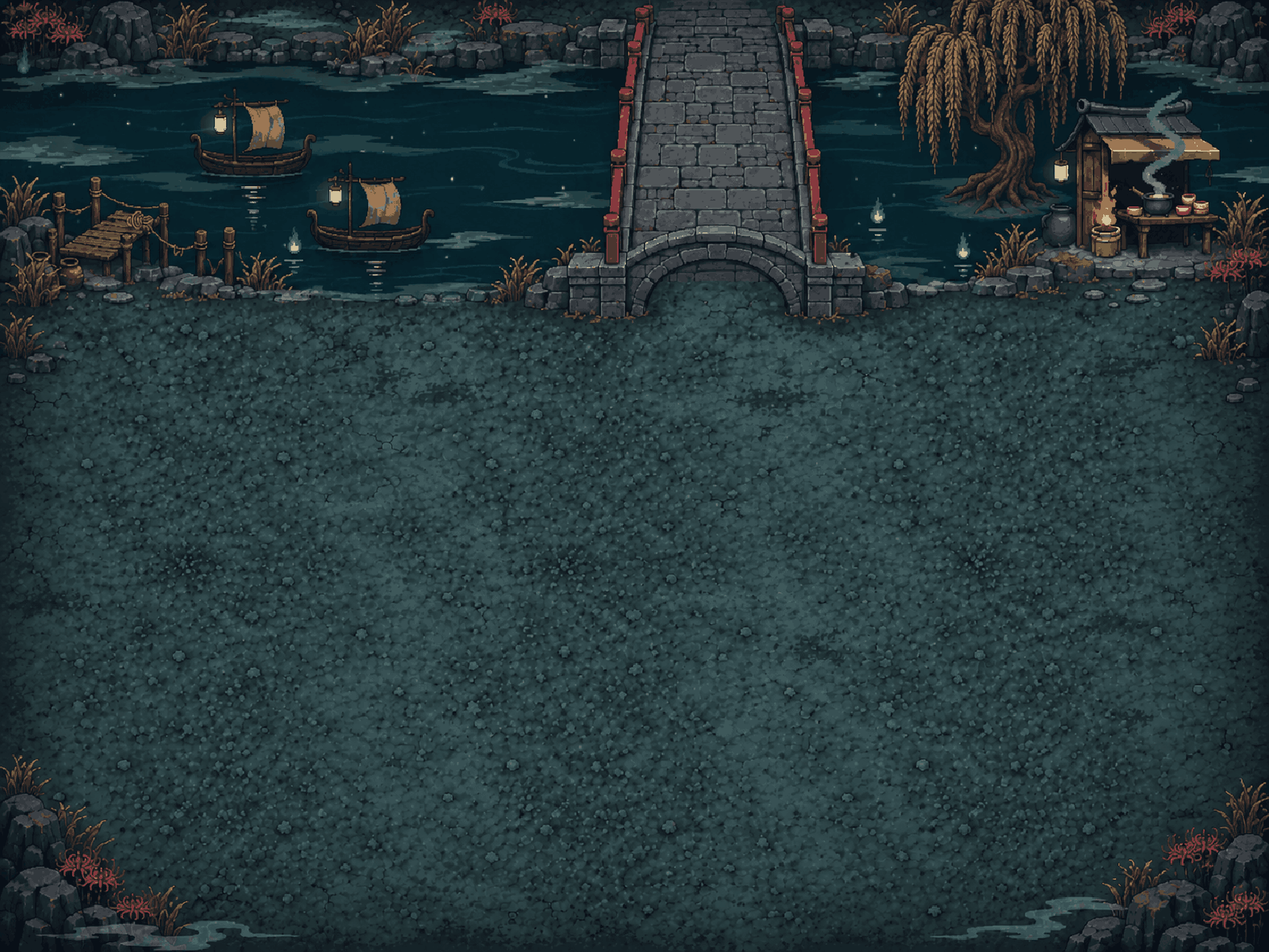
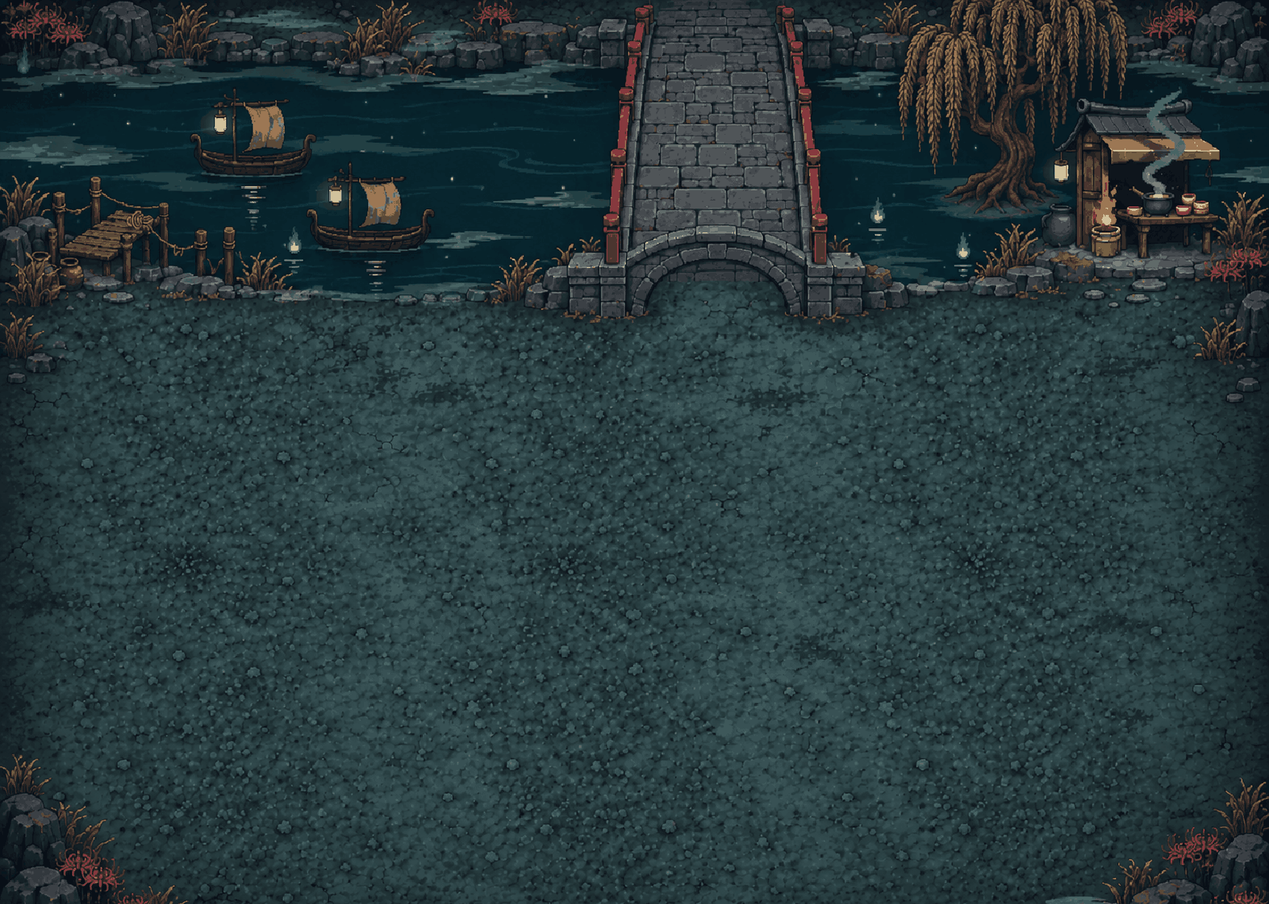
Vong Xuyên: nền ChatGPT 1600x1140 khớp tỉ lệ map
Claude-Session: https://claude.ai/code/session_01MYwTvK6dULdzXHFPeBSgyd

Changed region(s): [[0.0, 0.0, 1.0, 1.0]]

diff --git a/game/index.html b/game/index.html
@@ -1867,7 +1867,7 @@ function hitFx(x,y,ang,sc,sy,T){if(!vok('wx_slash'))return;fx({k:'sp',s:'wx_slas
 const vok=n=>VFX[n]&&VFX[n].complete&&VFX[n].naturalWidth>0;
 function arcCell(c,row,fi,sc){c.drawImage(VFX.arc_sheet,Math.max(0,Math.min(7,fi))*96,row*96,96,96,-48*sc,-48*sc,96*sc,96*sc)}
 /* bản đồ gói Wuxia */
-const MM={"Snow_pine_a":{"src":"assets/map/Snow_pine_a.png","w":268,"h":317,"ax":124,"ay":307,"col":[-21,-13,21,0]},"Snow_pine_b":{"src":"assets/map/Snow_pine_b.png","w":256,"h":276,"ax":128,"ay":267,"col":[-19,-12,19,0]},"Snow_bare":{"src":"assets/map/Snow_bare.png","w":202,"h":223,"ax":93,"ay":214,"col":[-17,-10,17,0]},"Snow_boulder":{"src":"assets/map/Snow_boulder.png","w":153,"h":132,"ax":81,"ay":131,"col":[-62,-32,62,0]},"Snow_cliff":{"src":"assets/map/Snow_cliff.png","w":407,"h":243,"ax":204,"ay":239,"col":[-170,-73,170,0]},"Snow_pavilion":{"src":"assets/map/Snow_pavilion.png","w":255,"h":275,"ax":117,"ay":279,"col":[-116,-11,-93,6]},"Forest_oak_0":{"src":"assets/map/Forest_oak_0.png","w":296,"h":295,"ax":144,"ay":293,"col":[-27,-14,27,0]},"Forest_oak_1":{"src":"assets/map/Forest_oak_1.png","w":275,"h":272,"ax":140,"ay":271,"col":[-25,-13,25,0]},"Forest_oak_2":{"src":"assets/map/Forest_oak_2.png","w":268,"h":274,"ax":134,"ay":269,"col":[-25,-13,25,0]},"Forest_oak_3":{"src":"assets/map/Forest_oak_3.png","w":271,"h":272,"ax":131,"ay":273,"col":[-25,-13,25,0]},"Forest_oak_5":{"src":"assets/map/Forest_oak_5.png","w":268,"h":259,"ax":140,"ay":261,"col":[-25,-13,25,0]},"Forest_bamboo":{"src":"assets/map/Forest_bamboo.png","w":263,"h":256,"ax":134,"ay":255,"col":[-42,-22,42,0]},"Forest_boulder":{"src":"assets/map/Forest_boulder.png","w":172,"h":130,"ax":83,"ay":134,"col":[-63,-33,63,0]},"Forest_willow":{"src":"assets/map/Forest_willow.png","w":233,"h":231,"ax":114,"ay":238,"col":[-13,-14,13,0]},"Forest_reeds":{"src":"assets/map/Forest_reeds.png","w":87,"h":68,"ax":45,"ay":68,"col":null},"Forest_pavilion":{"src":"assets/map/Forest_pavilion.png","w":296,"h":233,"ax":144,"ay":228,"col":[-89,-9,-69,2]},"Forest_stone_lantern":{"src":"assets/map/Forest_stone_lantern.png","w":24,"h":46,"ax":12,"ay":43,"col":null},"Forest_stone_shrine":{"src":"assets/map/Forest_stone_shrine.png","w":48,"h":43,"ax":24,"ay":41,"col":null},"Forest_wood_barrel":{"src":"assets/map/Forest_wood_barrel.png","w":26,"h":28,"ax":12,"ay":25,"col":[-9,-12,9,-1]},"Forest_wood_cart":{"src":"assets/map/Forest_wood_cart.png","w":72,"h":52,"ax":36,"ay":50,"col":[-33,-19,33,-1]},"Forest_wood_fence":{"src":"assets/map/Forest_wood_fence.png","w":56,"h":29,"ax":28,"ay":27,"col":[-25,-5,25,0]},"Forest_wood_sign":{"src":"assets/map/Forest_wood_sign.png","w":25,"h":47,"ax":12,"ay":44,"col":null},"Forest_cliff":{"src":"assets/map/Forest_cliff.png","w":314,"h":221,"ax":164,"ay":214,"col":[-125,-67,125,0]},"City_martial_hall":{"src":"assets/map/City_martial_hall.png","w":487,"h":443,"ax":243,"ay":318,"col":[-159,-78,159,-6]},"City_inn":{"src":"assets/map/City_inn.png","w":476,"h":443,"ax":237,"ay":321,"col":[-159,-78,159,-6]},"City_tea_house":{"src":"assets/map/City_tea_house.png","w":460,"h":437,"ax":232,"ay":319,"col":[-159,-78,159,-6]},"City_weapon_shop":{"src":"assets/map/City_weapon_shop.png","w":477,"h":432,"ax":238,"ay":313,"col":[-159,-78,159,-6]},"City_apothecary":{"src":"assets/map/City_apothecary.png","w":478,"h":436,"ax":242,"ay":315,"col":[-159,-78,159,-6]},"City_escort_agency":{"src":"assets/map/City_escort_agency.png","w":471,"h":432,"ax":236,"ay":313,"col":[-200,-78,200,-6]},"City_warehouse":{"src":"assets/map/City_warehouse.png","w":482,"h":434,"ax":240,"ay":312,"col":[-159,-78,159,-6]},"City_street_gate":{"src":"assets/map/City_street_gate.png","w":487,"h":423,"ax":243,"ay":310,"col":null},"City_market_stall":{"src":"assets/map/City_market_stall.png","w":120,"h":119,"ax":60,"ay":123,"col":[-48,-37,48,-5]},"City_market_stall_small":{"src":"assets/map/City_market_stall_small.png","w":66,"h":71,"ax":33,"ay":68,"col":[-37,-23,37,-1]},"City_market_food":{"src":"assets/map/City_market_food.png","w":208,"h":189,"ax":104,"ay":188,"col":[-86,-48,88,-3]},"City_market_jars":{"src":"assets/map/City_market_jars.png","w":222,"h":211,"ax":111,"ay":211,"col":[-96,-47,97,-2]},"City_market_produce":{"src":"assets/map/City_market_produce.png","w":261,"h":184,"ax":130,"ay":183,"col":[-115,-41,106,-3]},"City_market_textiles":{"src":"assets/map/City_market_textiles.png","w":276,"h":197,"ax":138,"ay":196,"col":[-122,-46,122,-2]},"City_market_tools":{"src":"assets/map/City_market_tools.png","w":233,"h":156,"ax":116,"ay":155,"col":[-100,-41,98,-2]},"City_standing_lantern":{"src":"assets/map/City_standing_lantern.png","w":22,"h":54,"ax":11,"ay":52,"col":null},"City_stone_lion":{"src":"assets/map/City_stone_lion.png","w":53,"h":70,"ax":26,"ay":68,"col":[-28,-16,28,0]},"City_stone_well":{"src":"assets/map/City_stone_well.png","w":60,"h":61,"ax":29,"ay":58,"col":[-27,-30,27,-2]},"City_stone_stele":{"src":"assets/map/City_stone_stele.png","w":57,"h":83,"ax":28,"ay":80,"col":null},"City_wood_cart":{"src":"assets/map/City_wood_cart.png","w":72,"h":52,"ax":36,"ay":50,"col":[-33,-19,33,-1]},"City_loaded_wagon":{"src":"assets/map/City_loaded_wagon.png","w":94,"h":69,"ax":47,"ay":66,"col":[-28,-16,28,0]},"City_barrels_on_rack":{"src":"assets/map/City_barrels_on_rack.png","w":62,"h":59,"ax":30,"ay":58,"col":[-28,-16,28,0]},"City_crate_stack":{"src":"assets/map/City_crate_stack.png","w":77,"h":83,"ax":38,"ay":84,"col":[-34,-18,34,-5]},"City_wood_barrel":{"src":"assets/map/City_wood_barrel.png","w":26,"h":28,"ax":12,"ay":25,"col":[-9,-12,9,-1]},"City_clay_jar":{"src":"assets/map/City_clay_jar.png","w":50,"h":64,"ax":24,"ay":59,"col":[-17,-22,17,-2]},"City_banner":{"src":"assets/map/City_banner.png","w":35,"h":86,"ax":17,"ay":83,"col":null},"City_reference_banner":{"src":"assets/map/City_reference_banner.png","w":57,"h":107,"ax":29,"ay":104,"col":null},"City_road_tree":{"src":"assets/map/City_road_tree.png","w":77,"h":105,"ax":38,"ay":102,"col":[-7,-9,7,0]},"City_broadleaf_tree":{"src":"assets/map/City_broadleaf_tree.png","w":77,"h":105,"ax":38,"ay":102,"col":[-7,-10,7,-1]},"City_willow_tree":{"src":"assets/map/City_willow_tree.png","w":118,"h":136,"ax":58,"ay":130,"col":null},"City_potted_shrub":{"src":"assets/map/City_potted_shrub.png","w":64,"h":86,"ax":32,"ay":86,"col":[-24,-16,24,-3]},"City_training_wood_dummy":{"src":"assets/map/City_training_wood_dummy.png","w":45,"h":83,"ax":22,"ay":80,"col":[-12,-16,12,0]},"City_market_horse_cargo_cart":{"src":"assets/map/City_market_horse_cargo_cart.png","w":180,"h":136,"ax":88,"ay":133,"col":[-82,-58,87,0]},"City_stone_cluster":{"src":"assets/map/City_stone_cluster.png","w":27,"h":24,"ax":13,"ay":22,"col":null},"City_market_notice_board":{"src":"assets/map/City_market_notice_board.png","w":87,"h":79,"ax":43,"ay":75,"col":[-34,-7,34,0]},"City_wood_fence":{"src":"assets/map/City_wood_fence.png","w":73,"h":38,"ax":36,"ay":36,"col":[-33,-7,33,0]},"g_snow":{"src":"assets/map/g_snow.jpg","w":978,"h":978},"g_snowgrass":{"src":"assets/map/g_snowgrass.jpg","w":399,"h":399},"g_meadow":{"src":"assets/map/g_meadow.jpg","w":978,"h":978},"g_dirt":{"src":"assets/map/g_dirt.jpg","w":399,"h":399},"g_pave":{"src":"assets/map/g_pave.jpg","w":399,"h":399},"Am_quantai1":{"src":"assets/map/Am_quantai1.png","w":94,"h":68,"ax":47,"ay":63,"col":[-37, -21, 37, -2]},"Am_quantai2":{"src":"assets/map/Am_quantai2.png","w":86,"h":66,"ax":43,"ay":61,"col":[-34, -21, 34, -2]},"Am_quantai3":{"src":"assets/map/Am_quantai3.png","w":46,"h":99,"ax":23,"ay":94,"col":[-18, -31, 18, -2]},"Am_denlong":{"src":"assets/map/Am_denlong.png","w":32,"h":101,"ax":16,"ay":96,"col":[-4, -6, 4, 0]},"Am_denlong2":{"src":"assets/map/Am_denlong2.png","w":115,"h":88,"ax":57,"ay":83,"col":null},"Am_bia1":{"src":"assets/map/Am_bia1.png","w":61,"h":84,"ax":30,"ay":79,"col":[-18, -11, 18, 0]},"Am_bia2":{"src":"assets/map/Am_bia2.png","w":84,"h":76,"ax":42,"ay":71,"col":[-25, -10, 25, 0]},"Am_nha1":{"src":"assets/map/Am_nha1.png","w":218,"h":183,"ax":109,"ay":178,"col":[-82, -51, 82, -2]},"Am_nha2":{"src":"assets/map/Am_nha2.png","w":194,"h":180,"ax":97,"ay":175,"col":[-73, -50, 73, -2]},"Am_caykho1":{"src":"assets/map/Am_caykho1.png","w":143,"h":159,"ax":71,"ay":154,"col":[-10, -9, 10, 0]},"Am_caykho2":{"src":"assets/map/Am_caykho2.png","w":91,"h":137,"ax":45,"ay":132,"col":[-10, -9, 10, 0]},"g_amdia":{"src":"assets/map/g_amdia.jpg","w":399,"h":399},"g_amdia_co":{"src":"assets/map/g_amdia_co.jpg","w":399,"h":399},"g_mieu":{"src":"assets/map/g_mieu.jpg","w":399,"h":399},"Mi_luhuong":{"src":"assets/map/Mi_luhuong.png","w":74,"h":93,"ax":37,"ay":88,"col":[-29, -27, 29, -2]},"Mi_tuongphat_lon":{"src":"assets/map/Mi_tuongphat_lon.png","w":291,"h":336,"ax":145,"ay":330,"col":[-95,-60,95,-2]},"Mi_tuongphat":{"src":"assets/map/Mi_tuongphat.png","w":102,"h":132,"ax":51,"ay":127,"col":[-35, -33, 35, -2]},"Mi_phuon":{"src":"assets/map/Mi_phuon.png","w":28,"h":120,"ax":14,"ay":115,"col":null},"Mi_cotda":{"src":"assets/map/Mi_cotda.png","w":58,"h":122,"ax":29,"ay":117,"col":[-17, -17, 17, 0]},"Mi_denda":{"src":"assets/map/Mi_denda.png","w":55,"h":87,"ax":27,"ay":82,"col":[-16, -17, 16, 0]},"Mi_cayphong":{"src":"assets/map/Mi_cayphong.png","w":167,"h":181,"ax":83,"ay":176,"col":[-10, -9, 10, 0]},"Dp_quanmon":{"src":"assets/map/Dp_quanmon.png","w":248,"h":192,"ax":124,"ay":190,"col":null},"Dp_hoa1":{"src":"assets/map/Dp_hoa1.png","w":84,"h":60,"ax":42,"ay":58,"col":null},"Dp_hoa2":{"src":"assets/map/Dp_hoa2.png","w":128,"h":68,"ax":64,"ay":66,"col":null},"Dp_vonghuong":{"src":"assets/map/Dp_vonghuong.png","w":142,"h":198,"ax":71,"ay":196,"col":[-47,-48,47,-2]},"Dp_guong":{"src":"assets/map/Dp_guong.png","w":116,"h":167,"ax":58,"ay":165,"col":[-26,-10,26,-2]},"Dp_samla":{"src":"assets/map/Dp_samla.png","w":274,"h":212,"ax":137,"ay":210,"col":[-90,-36,90,-2]},"Dp_cotden":{"src":"assets/map/Dp_cotden.png","w":55,"h":122,"ax":27,"ay":120,"col":[-9,-7,9,-2]},"Dp_vac":{"src":"assets/map/Dp_vac.png","w":82,"h":67,"ax":41,"ay":65,"col":[-28,-13,28,-2]},"Dp_loncong":{"src":"assets/map/Dp_loncong.png","w":44,"h":99,"ax":22,"ay":97,"col":null},"Dp_tuongdo":{"src":"assets/map/Dp_tuongdo.png","w":142,"h":81,"ax":71,"ay":79,"col":[-54,-18,54,-2]},"Dp_naiha":{"src":"assets/map/Dp_naiha.png","w":288,"h":101,"ax":144,"ay":99,"col":null,"flat":1},"Dp_manhba":{"src":"assets/map/Dp_manhba.png","w":120,"h":102,"ax":60,"ay":100,"col":[-43,-24,43,-2]},"Dp_ngai":{"src":"assets/map/Dp_ngai.png","w":157,"h":160,"ax":78,"ay":158,"col":[-57,-32,57,-2]},"Dp_cotdo":{"src":"assets/map/Dp_cotdo.png","w":54,"h":155,"ax":27,"ay":153,"col":[-9,-8,9,-2]},"Dp_banphan":{"src":"assets/map/Dp_banphan.png","w":112,"h":63,"ax":56,"ay":61,"col":[-45,-14,45,-2]},"Dp_luanhoi":{"src":"assets/map/Dp_luanhoi.png","w":157,"h":147,"ax":78,"ay":145,"col":[-47,-18,47,-2]},"Dp_thuyen1":{"src":"assets/map/Dp_thuyen1.png","w":89,"h":66,"ax":44,"ay":62,"col":null,"flat":1},"Dp_thuyen2":{"src":"assets/map/Dp_thuyen2.png","w":104,"h":55,"ax":52,"ay":51,"col":null,"flat":1},"bg_vongxuyen":{"src":"assets/map/bg_vongxuyen.png","w":1600,"h":1200},"Dp_xuong":{"src":"assets/map/Dp_xuong.png","w":125,"h":86,"ax":62,"ay":84,"col":null},"Dp_tuongvo":{"src":"assets/map/Dp_tuongvo.png","w":147,"h":153,"ax":73,"ay":151,"col":[-50,-31,50,-2]},"Dp_xieng":{"src":"assets/map/Dp_xieng.png","w":130,"h":105,"ax":65,"ay":103,"col":null},"Dp_bia":{"src":"assets/map/Dp_bia.png","w":148,"h":151,"ax":74,"ay":149,"col":[-47,-15,47,-2]},"Dp_caychet":{"src":"assets/map/Dp_caychet.png","w":155,"h":167,"ax":77,"ay":165,"col":[-12,-7,12,-2]},"Dp_vac2":{"src":"assets/map/Dp_vac2.png","w":101,"h":153,"ax":50,"ay":151,"col":[-36,-24,36,-2]},"Dp_da":{"src":"assets/map/Dp_da.png","w":158,"h":100,"ax":79,"ay":98,"col":[-63,-18,63,-2]},"Dp_phuonrach":{"src":"assets/map/Dp_phuonrach.png","w":81,"h":174,"ax":40,"ay":172,"col":[-8,-7,8,-2]},"Dp_daitron":{"src":"assets/map/Dp_daitron.png","w":188,"h":92,"ax":94,"ay":90,"col":null,"flat":1},"g_biangan":{"src":"assets/map/g_biangan.jpg","w":399,"h":399},"g_nghiep":{"src":"assets/map/g_nghiep.jpg","w":399,"h":399},"g_vongxuyen":{"src":"assets/map/g_vongxuyen.jpg","w":399,"h":399},"g_hoangtuyen":{"src":"assets/map/g_hoangtuyen.jpg","w":399,"h":399},"g_diemla":{"src":"assets/map/g_diemla.jpg","w":399,"h":399},"g_luanhoi":{"src":"assets/map/g_luanhoi.jpg","w":399,"h":399}};const MIMG={};let mapLoad=0;
+const MM={"Snow_pine_a":{"src":"assets/map/Snow_pine_a.png","w":268,"h":317,"ax":124,"ay":307,"col":[-21,-13,21,0]},"Snow_pine_b":{"src":"assets/map/Snow_pine_b.png","w":256,"h":276,"ax":128,"ay":267,"col":[-19,-12,19,0]},"Snow_bare":{"src":"assets/map/Snow_bare.png","w":202,"h":223,"ax":93,"ay":214,"col":[-17,-10,17,0]},"Snow_boulder":{"src":"assets/map/Snow_boulder.png","w":153,"h":132,"ax":81,"ay":131,"col":[-62,-32,62,0]},"Snow_cliff":{"src":"assets/map/Snow_cliff.png","w":407,"h":243,"ax":204,"ay":239,"col":[-170,-73,170,0]},"Snow_pavilion":{"src":"assets/map/Snow_pavilion.png","w":255,"h":275,"ax":117,"ay":279,"col":[-116,-11,-93,6]},"Forest_oak_0":{"src":"assets/map/Forest_oak_0.png","w":296,"h":295,"ax":144,"ay":293,"col":[-27,-14,27,0]},"Forest_oak_1":{"src":"assets/map/Forest_oak_1.png","w":275,"h":272,"ax":140,"ay":271,"col":[-25,-13,25,0]},"Forest_oak_2":{"src":"assets/map/Forest_oak_2.png","w":268,"h":274,"ax":134,"ay":269,"col":[-25,-13,25,0]},"Forest_oak_3":{"src":"assets/map/Forest_oak_3.png","w":271,"h":272,"ax":131,"ay":273,"col":[-25,-13,25,0]},"Forest_oak_5":{"src":"assets/map/Forest_oak_5.png","w":268,"h":259,"ax":140,"ay":261,"col":[-25,-13,25,0]},"Forest_bamboo":{"src":"assets/map/Forest_bamboo.png","w":263,"h":256,"ax":134,"ay":255,"col":[-42,-22,42,0]},"Forest_boulder":{"src":"assets/map/Forest_boulder.png","w":172,"h":130,"ax":83,"ay":134,"col":[-63,-33,63,0]},"Forest_willow":{"src":"assets/map/Forest_willow.png","w":233,"h":231,"ax":114,"ay":238,"col":[-13,-14,13,0]},"Forest_reeds":{"src":"assets/map/Forest_reeds.png","w":87,"h":68,"ax":45,"ay":68,"col":null},"Forest_pavilion":{"src":"assets/map/Forest_pavilion.png","w":296,"h":233,"ax":144,"ay":228,"col":[-89,-9,-69,2]},"Forest_stone_lantern":{"src":"assets/map/Forest_stone_lantern.png","w":24,"h":46,"ax":12,"ay":43,"col":null},"Forest_stone_shrine":{"src":"assets/map/Forest_stone_shrine.png","w":48,"h":43,"ax":24,"ay":41,"col":null},"Forest_wood_barrel":{"src":"assets/map/Forest_wood_barrel.png","w":26,"h":28,"ax":12,"ay":25,"col":[-9,-12,9,-1]},"Forest_wood_cart":{"src":"assets/map/Forest_wood_cart.png","w":72,"h":52,"ax":36,"ay":50,"col":[-33,-19,33,-1]},"Forest_wood_fence":{"src":"assets/map/Forest_wood_fence.png","w":56,"h":29,"ax":28,"ay":27,"col":[-25,-5,25,0]},"Forest_wood_sign":{"src":"assets/map/Forest_wood_sign.png","w":25,"h":47,"ax":12,"ay":44,"col":null},"Forest_cliff":{"src":"assets/map/Forest_cliff.png","w":314,"h":221,"ax":164,"ay":214,"col":[-125,-67,125,0]},"City_martial_hall":{"src":"assets/map/City_martial_hall.png","w":487,"h":443,"ax":243,"ay":318,"col":[-159,-78,159,-6]},"City_inn":{"src":"assets/map/City_inn.png","w":476,"h":443,"ax":237,"ay":321,"col":[-159,-78,159,-6]},"City_tea_house":{"src":"assets/map/City_tea_house.png","w":460,"h":437,"ax":232,"ay":319,"col":[-159,-78,159,-6]},"City_weapon_shop":{"src":"assets/map/City_weapon_shop.png","w":477,"h":432,"ax":238,"ay":313,"col":[-159,-78,159,-6]},"City_apothecary":{"src":"assets/map/City_apothecary.png","w":478,"h":436,"ax":242,"ay":315,"col":[-159,-78,159,-6]},"City_escort_agency":{"src":"assets/map/City_escort_agency.png","w":471,"h":432,"ax":236,"ay":313,"col":[-200,-78,200,-6]},"City_warehouse":{"src":"assets/map/City_warehouse.png","w":482,"h":434,"ax":240,"ay":312,"col":[-159,-78,159,-6]},"City_street_gate":{"src":"assets/map/City_street_gate.png","w":487,"h":423,"ax":243,"ay":310,"col":null},"City_market_stall":{"src":"assets/map/City_market_stall.png","w":120,"h":119,"ax":60,"ay":123,"col":[-48,-37,48,-5]},"City_market_stall_small":{"src":"assets/map/City_market_stall_small.png","w":66,"h":71,"ax":33,"ay":68,"col":[-37,-23,37,-1]},"City_market_food":{"src":"assets/map/City_market_food.png","w":208,"h":189,"ax":104,"ay":188,"col":[-86,-48,88,-3]},"City_market_jars":{"src":"assets/map/City_market_jars.png","w":222,"h":211,"ax":111,"ay":211,"col":[-96,-47,97,-2]},"City_market_produce":{"src":"assets/map/City_market_produce.png","w":261,"h":184,"ax":130,"ay":183,"col":[-115,-41,106,-3]},"City_market_textiles":{"src":"assets/map/City_market_textiles.png","w":276,"h":197,"ax":138,"ay":196,"col":[-122,-46,122,-2]},"City_market_tools":{"src":"assets/map/City_market_tools.png","w":233,"h":156,"ax":116,"ay":155,"col":[-100,-41,98,-2]},"City_standing_lantern":{"src":"assets/map/City_standing_lantern.png","w":22,"h":54,"ax":11,"ay":52,"col":null},"City_stone_lion":{"src":"assets/map/City_stone_lion.png","w":53,"h":70,"ax":26,"ay":68,"col":[-28,-16,28,0]},"City_stone_well":{"src":"assets/map/City_stone_well.png","w":60,"h":61,"ax":29,"ay":58,"col":[-27,-30,27,-2]},"City_stone_stele":{"src":"assets/map/City_stone_stele.png","w":57,"h":83,"ax":28,"ay":80,"col":null},"City_wood_cart":{"src":"assets/map/City_wood_cart.png","w":72,"h":52,"ax":36,"ay":50,"col":[-33,-19,33,-1]},"City_loaded_wagon":{"src":"assets/map/City_loaded_wagon.png","w":94,"h":69,"ax":47,"ay":66,"col":[-28,-16,28,0]},"City_barrels_on_rack":{"src":"assets/map/City_barrels_on_rack.png","w":62,"h":59,"ax":30,"ay":58,"col":[-28,-16,28,0]},"City_crate_stack":{"src":"assets/map/City_crate_stack.png","w":77,"h":83,"ax":38,"ay":84,"col":[-34,-18,34,-5]},"City_wood_barrel":{"src":"assets/map/City_wood_barrel.png","w":26,"h":28,"ax":12,"ay":25,"col":[-9,-12,9,-1]},"City_clay_jar":{"src":"assets/map/City_clay_jar.png","w":50,"h":64,"ax":24,"ay":59,"col":[-17,-22,17,-2]},"City_banner":{"src":"assets/map/City_banner.png","w":35,"h":86,"ax":17,"ay":83,"col":null},"City_reference_banner":{"src":"assets/map/City_reference_banner.png","w":57,"h":107,"ax":29,"ay":104,"col":null},"City_road_tree":{"src":"assets/map/City_road_tree.png","w":77,"h":105,"ax":38,"ay":102,"col":[-7,-9,7,0]},"City_broadleaf_tree":{"src":"assets/map/City_broadleaf_tree.png","w":77,"h":105,"ax":38,"ay":102,"col":[-7,-10,7,-1]},"City_willow_tree":{"src":"assets/map/City_willow_tree.png","w":118,"h":136,"ax":58,"ay":130,"col":null},"City_potted_shrub":{"src":"assets/map/City_potted_shrub.png","w":64,"h":86,"ax":32,"ay":86,"col":[-24,-16,24,-3]},"City_training_wood_dummy":{"src":"assets/map/City_training_wood_dummy.png","w":45,"h":83,"ax":22,"ay":80,"col":[-12,-16,12,0]},"City_market_horse_cargo_cart":{"src":"assets/map/City_market_horse_cargo_cart.png","w":180,"h":136,"ax":88,"ay":133,"col":[-82,-58,87,0]},"City_stone_cluster":{"src":"assets/map/City_stone_cluster.png","w":27,"h":24,"ax":13,"ay":22,"col":null},"City_market_notice_board":{"src":"assets/map/City_market_notice_board.png","w":87,"h":79,"ax":43,"ay":75,"col":[-34,-7,34,0]},"City_wood_fence":{"src":"assets/map/City_wood_fence.png","w":73,"h":38,"ax":36,"ay":36,"col":[-33,-7,33,0]},"g_snow":{"src":"assets/map/g_snow.jpg","w":978,"h":978},"g_snowgrass":{"src":"assets/map/g_snowgrass.jpg","w":399,"h":399},"g_meadow":{"src":"assets/map/g_meadow.jpg","w":978,"h":978},"g_dirt":{"src":"assets/map/g_dirt.jpg","w":399,"h":399},"g_pave":{"src":"assets/map/g_pave.jpg","w":399,"h":399},"Am_quantai1":{"src":"assets/map/Am_quantai1.png","w":94,"h":68,"ax":47,"ay":63,"col":[-37, -21, 37, -2]},"Am_quantai2":{"src":"assets/map/Am_quantai2.png","w":86,"h":66,"ax":43,"ay":61,"col":[-34, -21, 34, -2]},"Am_quantai3":{"src":"assets/map/Am_quantai3.png","w":46,"h":99,"ax":23,"ay":94,"col":[-18, -31, 18, -2]},"Am_denlong":{"src":"assets/map/Am_denlong.png","w":32,"h":101,"ax":16,"ay":96,"col":[-4, -6, 4, 0]},"Am_denlong2":{"src":"assets/map/Am_denlong2.png","w":115,"h":88,"ax":57,"ay":83,"col":null},"Am_bia1":{"src":"assets/map/Am_bia1.png","w":61,"h":84,"ax":30,"ay":79,"col":[-18, -11, 18, 0]},"Am_bia2":{"src":"assets/map/Am_bia2.png","w":84,"h":76,"ax":42,"ay":71,"col":[-25, -10, 25, 0]},"Am_nha1":{"src":"assets/map/Am_nha1.png","w":218,"h":183,"ax":109,"ay":178,"col":[-82, -51, 82, -2]},"Am_nha2":{"src":"assets/map/Am_nha2.png","w":194,"h":180,"ax":97,"ay":175,"col":[-73, -50, 73, -2]},"Am_caykho1":{"src":"assets/map/Am_caykho1.png","w":143,"h":159,"ax":71,"ay":154,"col":[-10, -9, 10, 0]},"Am_caykho2":{"src":"assets/map/Am_caykho2.png","w":91,"h":137,"ax":45,"ay":132,"col":[-10, -9, 10, 0]},"g_amdia":{"src":"assets/map/g_amdia.jpg","w":399,"h":399},"g_amdia_co":{"src":"assets/map/g_amdia_co.jpg","w":399,"h":399},"g_mieu":{"src":"assets/map/g_mieu.jpg","w":399,"h":399},"Mi_luhuong":{"src":"assets/map/Mi_luhuong.png","w":74,"h":93,"ax":37,"ay":88,"col":[-29, -27, 29, -2]},"Mi_tuongphat_lon":{"src":"assets/map/Mi_tuongphat_lon.png","w":291,"h":336,"ax":145,"ay":330,"col":[-95,-60,95,-2]},"Mi_tuongphat":{"src":"assets/map/Mi_tuongphat.png","w":102,"h":132,"ax":51,"ay":127,"col":[-35, -33, 35, -2]},"Mi_phuon":{"src":"assets/map/Mi_phuon.png","w":28,"h":120,"ax":14,"ay":115,"col":null},"Mi_cotda":{"src":"assets/map/Mi_cotda.png","w":58,"h":122,"ax":29,"ay":117,"col":[-17, -17, 17, 0]},"Mi_denda":{"src":"assets/map/Mi_denda.png","w":55,"h":87,"ax":27,"ay":82,"col":[-16, -17, 16, 0]},"Mi_cayphong":{"src":"assets/map/Mi_cayphong.png","w":167,"h":181,"ax":83,"ay":176,"col":[-10, -9, 10, 0]},"Dp_quanmon":{"src":"assets/map/Dp_quanmon.png","w":248,"h":192,"ax":124,"ay":190,"col":null},"Dp_hoa1":{"src":"assets/map/Dp_hoa1.png","w":84,"h":60,"ax":42,"ay":58,"col":null},"Dp_hoa2":{"src":"assets/map/Dp_hoa2.png","w":128,"h":68,"ax":64,"ay":66,"col":null},"Dp_vonghuong":{"src":"assets/map/Dp_vonghuong.png","w":142,"h":198,"ax":71,"ay":196,"col":[-47,-48,47,-2]},"Dp_guong":{"src":"assets/map/Dp_guong.png","w":116,"h":167,"ax":58,"ay":165,"col":[-26,-10,26,-2]},"Dp_samla":{"src":"assets/map/Dp_samla.png","w":274,"h":212,"ax":137,"ay":210,"col":[-90,-36,90,-2]},"Dp_cotden":{"src":"assets/map/Dp_cotden.png","w":55,"h":122,"ax":27,"ay":120,"col":[-9,-7,9,-2]},"Dp_vac":{"src":"assets/map/Dp_vac.png","w":82,"h":67,"ax":41,"ay":65,"col":[-28,-13,28,-2]},"Dp_loncong":{"src":"assets/map/Dp_loncong.png","w":44,"h":99,"ax":22,"ay":97,"col":null},"Dp_tuongdo":{"src":"assets/map/Dp_tuongdo.png","w":142,"h":81,"ax":71,"ay":79,"col":[-54,-18,54,-2]},"Dp_naiha":{"src":"assets/map/Dp_naiha.png","w":288,"h":101,"ax":144,"ay":99,"col":null,"flat":1},"Dp_manhba":{"src":"assets/map/Dp_manhba.png","w":120,"h":102,"ax":60,"ay":100,"col":[-43,-24,43,-2]},"Dp_ngai":{"src":"assets/map/Dp_ngai.png","w":157,"h":160,"ax":78,"ay":158,"col":[-57,-32,57,-2]},"Dp_cotdo":{"src":"assets/map/Dp_cotdo.png","w":54,"h":155,"ax":27,"ay":153,"col":[-9,-8,9,-2]},"Dp_banphan":{"src":"assets/map/Dp_banphan.png","w":112,"h":63,"ax":56,"ay":61,"col":[-45,-14,45,-2]},"Dp_luanhoi":{"src":"assets/map/Dp_luanhoi.png","w":157,"h":147,"ax":78,"ay":145,"col":[-47,-18,47,-2]},"Dp_thuyen1":{"src":"assets/map/Dp_thuyen1.png","w":89,"h":66,"ax":44,"ay":62,"col":null,"flat":1},"Dp_thuyen2":{"src":"assets/map/Dp_thuyen2.png","w":104,"h":55,"ax":52,"ay":51,"col":null,"flat":1},"bg_vongxuyen":{"src":"assets/map/bg_vongxuyen.png","w":1600,"h":1140},"Dp_xuong":{"src":"assets/map/Dp_xuong.png","w":125,"h":86,"ax":62,"ay":84,"col":null},"Dp_tuongvo":{"src":"assets/map/Dp_tuongvo.png","w":147,"h":153,"ax":73,"ay":151,"col":[-50,-31,50,-2]},"Dp_xieng":{"src":"assets/map/Dp_xieng.png","w":130,"h":105,"ax":65,"ay":103,"col":null},"Dp_bia":{"src":"assets/map/Dp_bia.png","w":148,"h":151,"ax":74,"ay":149,"col":[-47,-15,47,-2]},"Dp_caychet":{"src":"assets/map/Dp_caychet.png","w":155,"h":167,"ax":77,"ay":165,"col":[-12,-7,12,-2]},"Dp_vac2":{"src":"assets/map/Dp_vac2.png","w":101,"h":153,"ax":50,"ay":151,"col":[-36,-24,36,-2]},"Dp_da":{"src":"assets/map/Dp_da.png","w":158,"h":100,"ax":79,"ay":98,"col":[-63,-18,63,-2]},"Dp_phuonrach":{"src":"assets/map/Dp_phuonrach.png","w":81,"h":174,"ax":40,"ay":172,"col":[-8,-7,8,-2]},"Dp_daitron":{"src":"assets/map/Dp_daitron.png","w":188,"h":92,"ax":94,"ay":90,"col":null,"flat":1},"g_biangan":{"src":"assets/map/g_biangan.jpg","w":399,"h":399},"g_nghiep":{"src":"assets/map/g_nghiep.jpg","w":399,"h":399},"g_vongxuyen":{"src":"assets/map/g_vongxuyen.jpg","w":399,"h":399},"g_hoangtuyen":{"src":"assets/map/g_hoangtuyen.jpg","w":399,"h":399},"g_diemla":{"src":"assets/map/g_diemla.jpg","w":399,"h":399},"g_luanhoi":{"src":"assets/map/g_luanhoi.jpg","w":399,"h":399}};const MIMG={};let mapLoad=0;
 for(const k in MM){const i=new Image();i.onload=()=>{mapLoad++;if(!G&&mapLoad%8===0)paintMap()};i.src=MM[k].src;MIMG[k]=i}
 const mok=k=>MIMG[k]&&MIMG[k].complete&&MIMG[k].naturalWidth>0;
 const MAPS={
@@ -1996,7 +1996,7 @@ function drawMapEdge(M,c,cx,cy,hw,hh){const e=(M.edge||'#0a0a0a').replace('#',''
 function drawGroundMap(M,cx,cy,hw,hh){const c=X,pat=gPat(M.ground);
  c.fillStyle=M.edge;c.fillRect(cx-hw,cy-hh,hw*2,hh*2);
  if(pat){c.fillStyle=pat;c.fillRect(cx-hw,cy-hh,hw*2,hh*2)}
- if(M.bg&&mok(M.bg)){c.save();c.imageSmoothingEnabled=false;c.beginPath();c.rect(0,0,AW,AH);c.clip();c.drawImage(MIMG[M.bg],0,-60,AW,2400);c.restore()}
+ if(M.bg&&mok(M.bg)){c.save();c.imageSmoothingEnabled=false;c.beginPath();c.rect(0,0,AW,AH);c.clip();c.drawImage(MIMG[M.bg],0,0,AW,AH);c.restore()}
  if(M.ground==='g_snow'){c.fillStyle='rgba(30,44,60,.16)';c.fillRect(cx-hw,cy-hh,hw*2,hh*2)}
  const pp=M.patch&&gPat(M.patch);
  if(pp){for(const p of patches){if(Math.abs(p.x-cx)>hw+p.r||Math.abs(p.y-cy)>hh+p.r)continue;if(!p.cv){const w=Math.ceil(p.r*2),h=Math.ceil(p.r*1.4),cv=document.createElement('canvas');cv.width=w;cv.height=h;const g=cv.getContext('2d');g.translate(-(p.x-p.r),-(p.y-p.r*0.7));g.fillStyle=pp;g.fillRect(p.x-p.r,p.y-p.r*0.7,w,h);g.setTransform(1,0,0,1,0,0);g.globalCompositeOperation='destination-in';g.translate(w/2,h/2);g.scale(1,0.7);const rg=g.createRadialGradient(0,0,p.r*0.35,0,0,p.r);rg.addColorStop(0,'rgba(0,0,0,.95)');rg.addColorStop(0.6,'rgba(0,0,0,.6)');rg.addColorStop(1,'rgba(0,0,0,0)');g.fillStyle=rg;g.beginPath();g.arc(0,0,p.r,0,TAU);g.fill();p.cv=cv}c.drawImage(p.cv,p.x-p.r,p.y-p.r*0.7)}}
@@ -2464,8 +2464,8 @@ MAPS.am_uongtu=amMap({amb:'ember',grade:'rgba(90,50,30,.06)',dec:{crack:20,stain
   amRow(add,'Am_bia1',900,1950,260,0,6,1,10);add('City_wood_cart',1500,420);add('City_clay_jar',1700,430)}});
 MAPS.am_vongxuyen=amMap({amb:'wisp',grade:'rgba(10,70,80,.06)',bg:'bg_vongxuyen',dec:{crack:6,moss:6},name:'Vong Xuyên & Cầu Nại Hà',zh:'忘川・奈何橋',desc:'Dòng sông quên lãng, thuyền ma trôi dưới ánh đèn xanh. Cầu Nại Hà bắc qua, nơi Mạnh Bà đứng canh.',ground:'g_vongxuyen',patch:null,edge:'#0b0f14',dark:.12,
  /* 25/11: nền dựng sẵn do ChatGPT vẽ (1600x1200, phóng x2), thay cho các vật xếp tay */
- floor:[{t:'slow',x0:0,x1:1540,y0:110,y1:680},{t:'slow',x0:2090,x1:2700,y0:110,y1:660}],
- lights:[{x:554,y:250,r:130,c:'200,240,255'},{x:842,y:426,r:130,c:'200,240,255'},{x:2674,y:366,r:120,c:'255,225,160'},{x:2786,y:490,r:150,c:'255,150,60'}],
+ floor:[{t:'slow',x0:0,x1:1540,y0:160,y1:740},{t:'slow',x0:2090,x1:2700,y0:160,y1:720}],
+ lights:[{x:554,y:310,r:130,c:'200,240,255'},{x:842,y:486,r:130,c:'200,240,255'},{x:2674,y:426,r:120,c:'255,225,160'},{x:2786,y:550,r:150,c:'255,150,60'}],
  border:['Forest_willow','Forest_reeds','Forest_willow','Am_caykho2'],inner:[],
  layout(add){}});
 MAPS.am_diemla=amMap({amb:'ember2',grade:'rgba(100,10,20,.09)',dec:{crack:26,stain:10,stainC:'rgba(90,6,12,.30)'},rim:{k:'wall',n:'Dp_cotdo',sc:1.8,gap:2.4,rows:1},floor:[{t:'carpet',x0:1500,x1:1700,y0:760,y1:2350},{t:'glow',x:1600,y:760,r:460,c:'rgba(255,196,90,.13)'}],name:'Diêm La Bảo Điện',zh:'閻羅寶殿',desc:'Đại điện của Diêm La, cột đỏ cao, phướn bùa phủ kín. Mỗi bước tiến là một bước gần phán quyết.',ground:'g_diemla',edge:'#0a0a0e',dark:.28,

diff --git a/CLAUDE.md b/CLAUDE.md
@@ -460,3 +460,5 @@ Chủ game gửi ảnh sảnh iPhone ngang (~664×307, trong trình duyệt nên
 - (25/11) **ÉP HỆ SỐ PHÓNG LÀ SỐ NGUYÊN (chủ game: "nét thật nét")**: trong `resize()`, sau khi tính ZOOM, nếu có thể thì đặt `ZOOM=n/DPR` với n nguyên (làm tròn LÊN nếu ≤+25%, không thì xuống nếu ≥−20%; ngoài khoảng đó giữ nguyên), kèm làm tròn camera theo pixel màn hình trong `render()`. Mỗi pixel art của nền ×2, nhân vật ~×1 chiếm đúng số nguyên pixel màn hình, hết lởm chởm. Đo độ dài đoạn màu liền (844×390 DPR3, 932×430 DPR3, 550×278 DPR3, 1100×620 DPR1): trước lẫn 5/6 hoặc 3/4/7 px, sau gom đúng bội số (6, 12, 18... hoặc 4, 8, 12...). Tác dụng phụ: vùng nhìn thấy thay đổi tới +25% (sprite to hơn) hoặc −20%. Tắt: `window.__noSnap=1` trước khi `resize`. Quái/vật phóng bằng hệ số riêng (0,72; 0,95...) vẫn chưa nguyên. Ảnh: `nguon/tham_chieu/net_so_nguyen_truoc_sau.png`.
 
 - (25/11) **8 vật ChatGPT vẽ vào game** (`nguon/master_amgioi/chatgpt_vat8/sheet_goc.png`, 1774×887 nền trong suốt; lưới gốc 2 px nên thu về một nửa bằng NEAREST, bỏ viền đỏ/xanh rác ở biên): `Dp_xuong` (xương), `Dp_tuongvo` (tượng sư tử vỡ), `Dp_xieng` (xiềng xích), `Dp_bia` (bia vỡ), `Dp_caychet`, `Dp_vac2` (vạc có khói), `Dp_da` (đá rêu), `Dp_phuonrach` (cờ rách). Thêm vào `inner` (rải ngẫu nhiên): Hoàng Tuyền (xương, bia, cây chết, đá), Bỉ Ngạn (bia, đá, xương), Nghiệt Kính (xiềng, tượng, xương), Uổng Tử (vạc, xương, cờ, xiềng), Diêm La (cờ, tượng, xiềng), Luân Hồi (đá, bia, xương). Kích thước vật khá lớn so với nhân vật (bia 148×151, cây 155×167 sau khi thu); phóng ×0,72 như các vật khác. Lần sau nhờ ChatGPT vẽ nhỏ hơn (khoảng 60-100 px) nếu muốn vật đúng tỉ lệ 1:1. Ảnh: `nguon/tham_chieu/chatgpt_8_vat_sau_xu_ly.png`.
+
+- (25/11) **Nền Vong Xuyên thay bằng bản ChatGPT 1600×1140** (`nguon/master_amgioi/chatgpt_map_vongxuyen_1600x1140.png`, 64 màu, khối 2×2 chỉ 17%): tỉ lệ khớp đúng map 3200×2280 (×2 đều cả hai chiều, không còn cắt/kéo giãn như bản 1600×1200). Đã chỉnh lại toạ độ ánh sáng và vùng làm chậm trong sông (`MAPS.am_vongxuyen`). Vẫn là phóng ×2 (pixel nền to gấp đôi nhân vật). Muốn 1:1: dùng gói `PROMPT_CHATGPT_MAP_1TO1.md` (4 góc 1600×1140).
